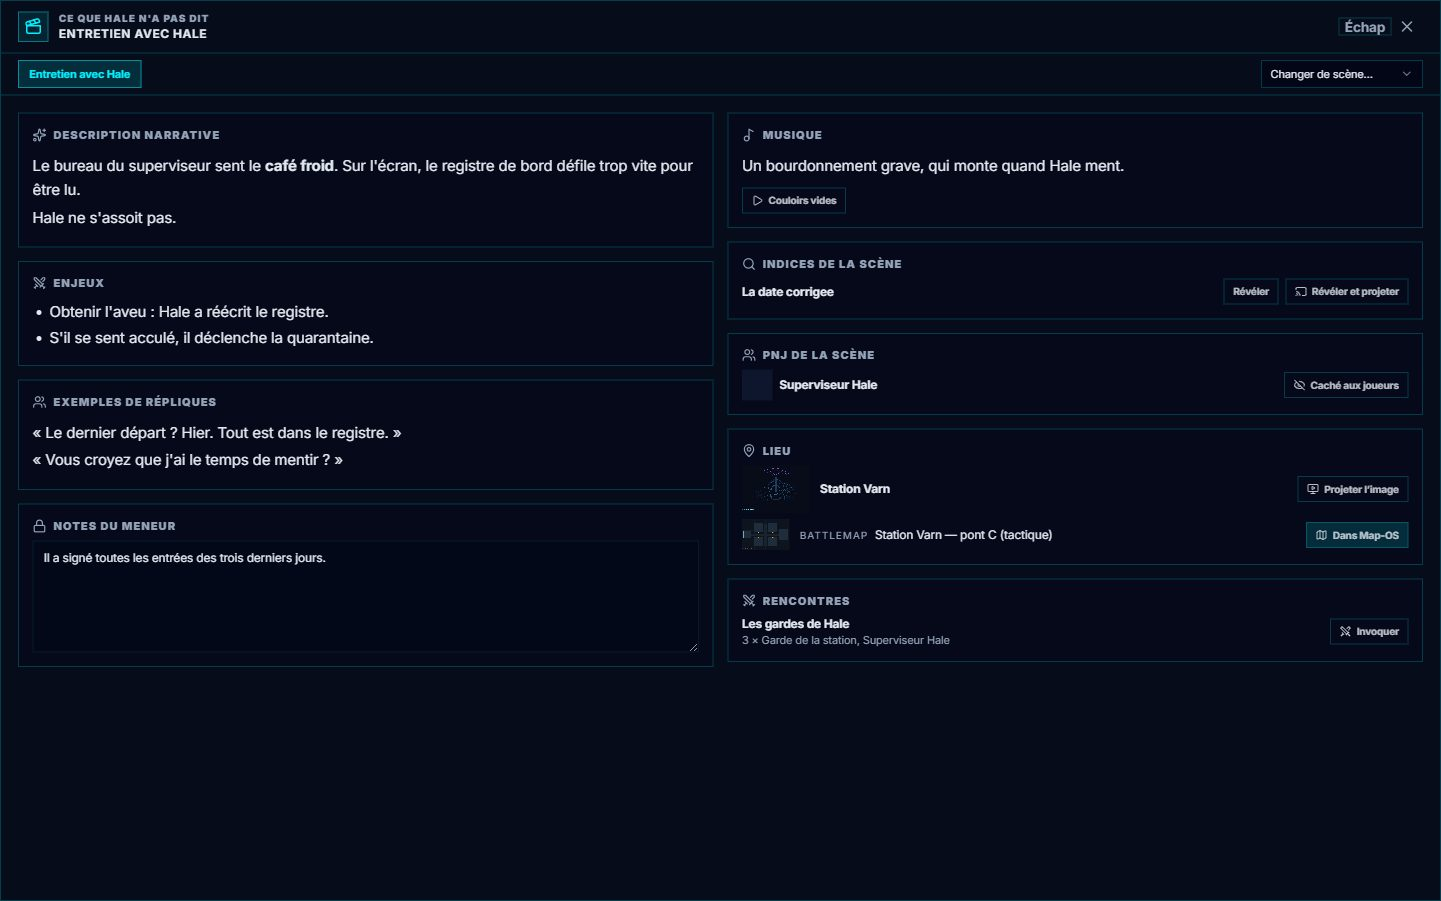
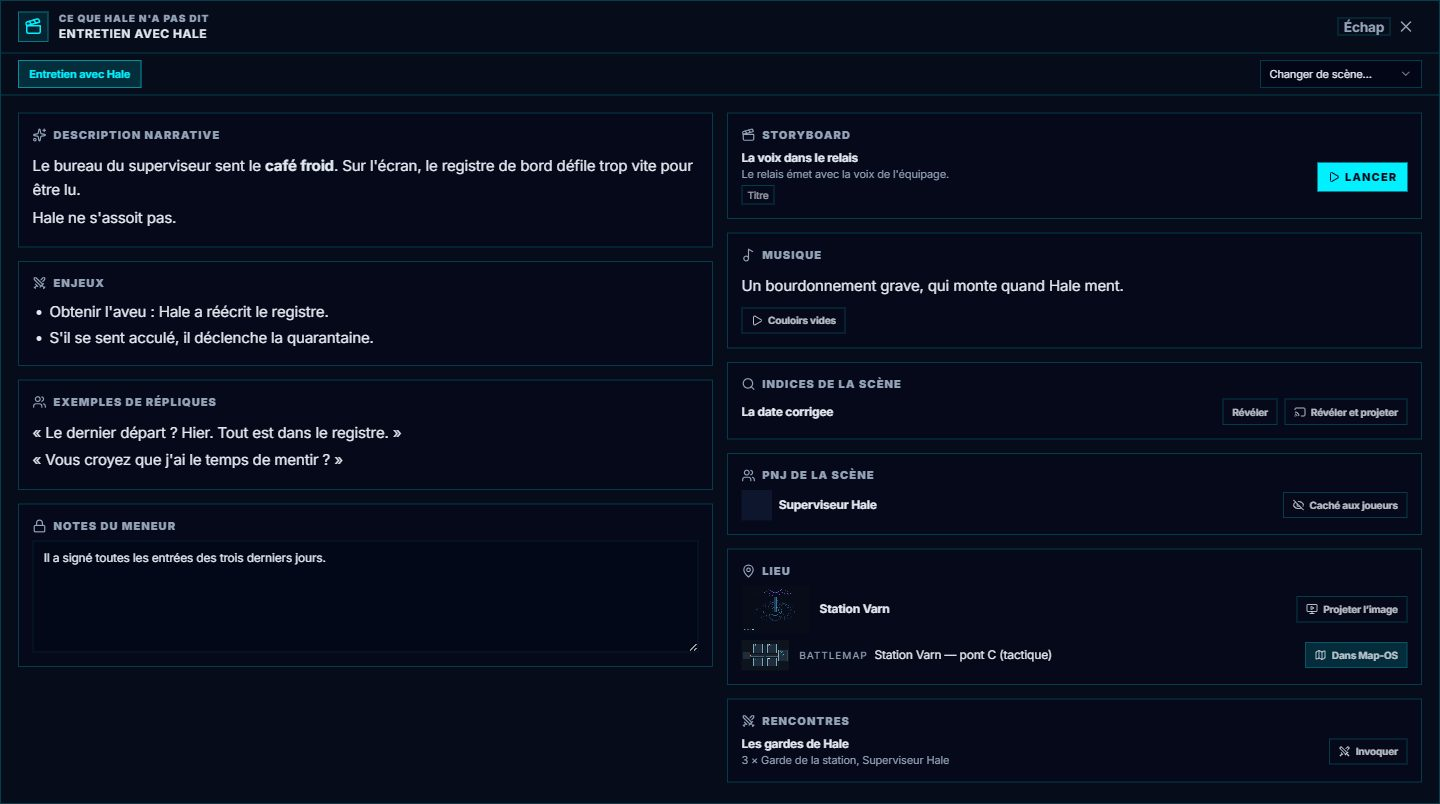
docs(guides): le bloc Storyboard de l ecran Scene en cours, et sa capture
La scene de demonstration recoit un moment de storyboard ; la capture de
l ecran le montre en tete, avec Lancer. Le guide decrit le bloc.

diff --git a/e2e/capturesDuManuel.spec.ts b/e2e/capturesDuManuel.spec.ts
@@ -202,6 +202,8 @@ async function mettreEnScene(): Promise<void> {
         s.addLinkedEntity('temoin-lieu-station', { name: pontC.name, category: 'lieu', mapId: pontC.id });
 
         const morceau = w.useMusicStore.getState().playlists[0]?.pads[1]?.id;
+        // Le moment de storyboard de la scène : l'écran le montre en tête, avec « Lancer ».
+        const moment = w.useStoryboardStore.getState().moments.find(m => m.name === 'La voix dans le relais')?.id;
         s.modifierScene('temoin-scene-2', {
             lieuId: 'temoin-lieu-station',
             descriptionNarrative: "Le bureau du superviseur sent le **café froid**. Sur l'écran, le registre de bord défile trop vite pour être lu.\n\nHale ne s'assoit pas.",
@@ -209,6 +211,7 @@ async function mettreEnScene(): Promise<void> {
             repliques: "« Le dernier départ ? Hier. Tout est dans le registre. »\n\n« Vous croyez que j'ai le temps de mentir ? »",
             ideesMusicales: 'Un bourdonnement grave, qui monte quand Hale ment.',
             morceauxIds: morceau ? [morceau] : undefined,
+            momentDeStoryboardId: moment,
             notesDuMeneur: 'Il a signé toutes les entrées des trois derniers jours.',
         });
         s.ajouterUneRencontre({

diff --git a/documentation/User Guides/15-Scene-en-cours.md b/documentation/User Guides/15-Scene-en-cours.md
@@ -5,7 +5,7 @@ démarre une scène, ses informations ne sont pas facilement accessibles »*. To
 [Trame](./11-Trame-actes-et-scenes.md) a préparé pour une scène se lisait en dépliant sa ligne, en
 noms seuls. Cet écran le met **en plein écran, dans l'ordre où l'on s'en sert**.
 
-![L'écran « Scène en cours » sur Entretien avec Hale : description, enjeux, répliques et notes à gauche ; musique, indices, PNJ, lieu et battlemap, rencontres à droite](captures/scene-en-cours.jpg)
+![L'écran « Scène en cours » sur Entretien avec Hale : description, enjeux, répliques et notes à gauche ; le moment de storyboard et son bouton Lancer, la musique, les indices, les PNJ, le lieu et sa battlemap, les rencontres à droite](captures/scene-en-cours.jpg)
 
 ---
 
@@ -44,7 +44,8 @@ rempli, l'écran montre le **résumé** de la scène à leur place.
 
 | Bloc | Gestes |
 | :--- | :--- |
-| **Musique** | Vos idées musicales ; **Lancer l'ambiance** (le moment de storyboard lié) ; les **morceaux liés**, jouables d'un clic et **allumés quand ils jouent**. |
+| **Storyboard** | Le **moment de storyboard** de la scène, en tête : son nom, sa description, et ce qu'il déclenche (musique, lumière, carte, image, son, ambiance, titre). **Lancer** le joue ; pendant qu'il joue, le bloc s'allume et **Arrêter** referme la parenthèse — la musique, elle, continue. |
+| **Musique** | Vos idées musicales ; les **morceaux liés**, jouables d'un clic et **allumés quand ils jouent**. |
 | **Indices de la scène** | **Révéler**, **Révéler et projeter**. Un indice découvert **reste là**, avec sa date, et garde **Projeter**. |
 | **PNJ de la scène** | **Montré aux joueurs / Caché aux joueurs** ; un clic sur le nom ouvre sa fiche. La première fois qu'un PNJ est montré, il reste marqué **« rencontré le… »** — le cacher ensuite n'efface pas la rencontre. |
 | **Lieu** | Un lieu-**image** : **Projeter l'image**, d'un clic, sur l'**écran par défaut d'Image-OS** (un second clic la retire). Une **battlemap** — le lieu lui-même s'il en est une, et chacune des battlemaps de la scène : **Charger dans Map-OS** (allumé quand c'est la carte du plateau). |
